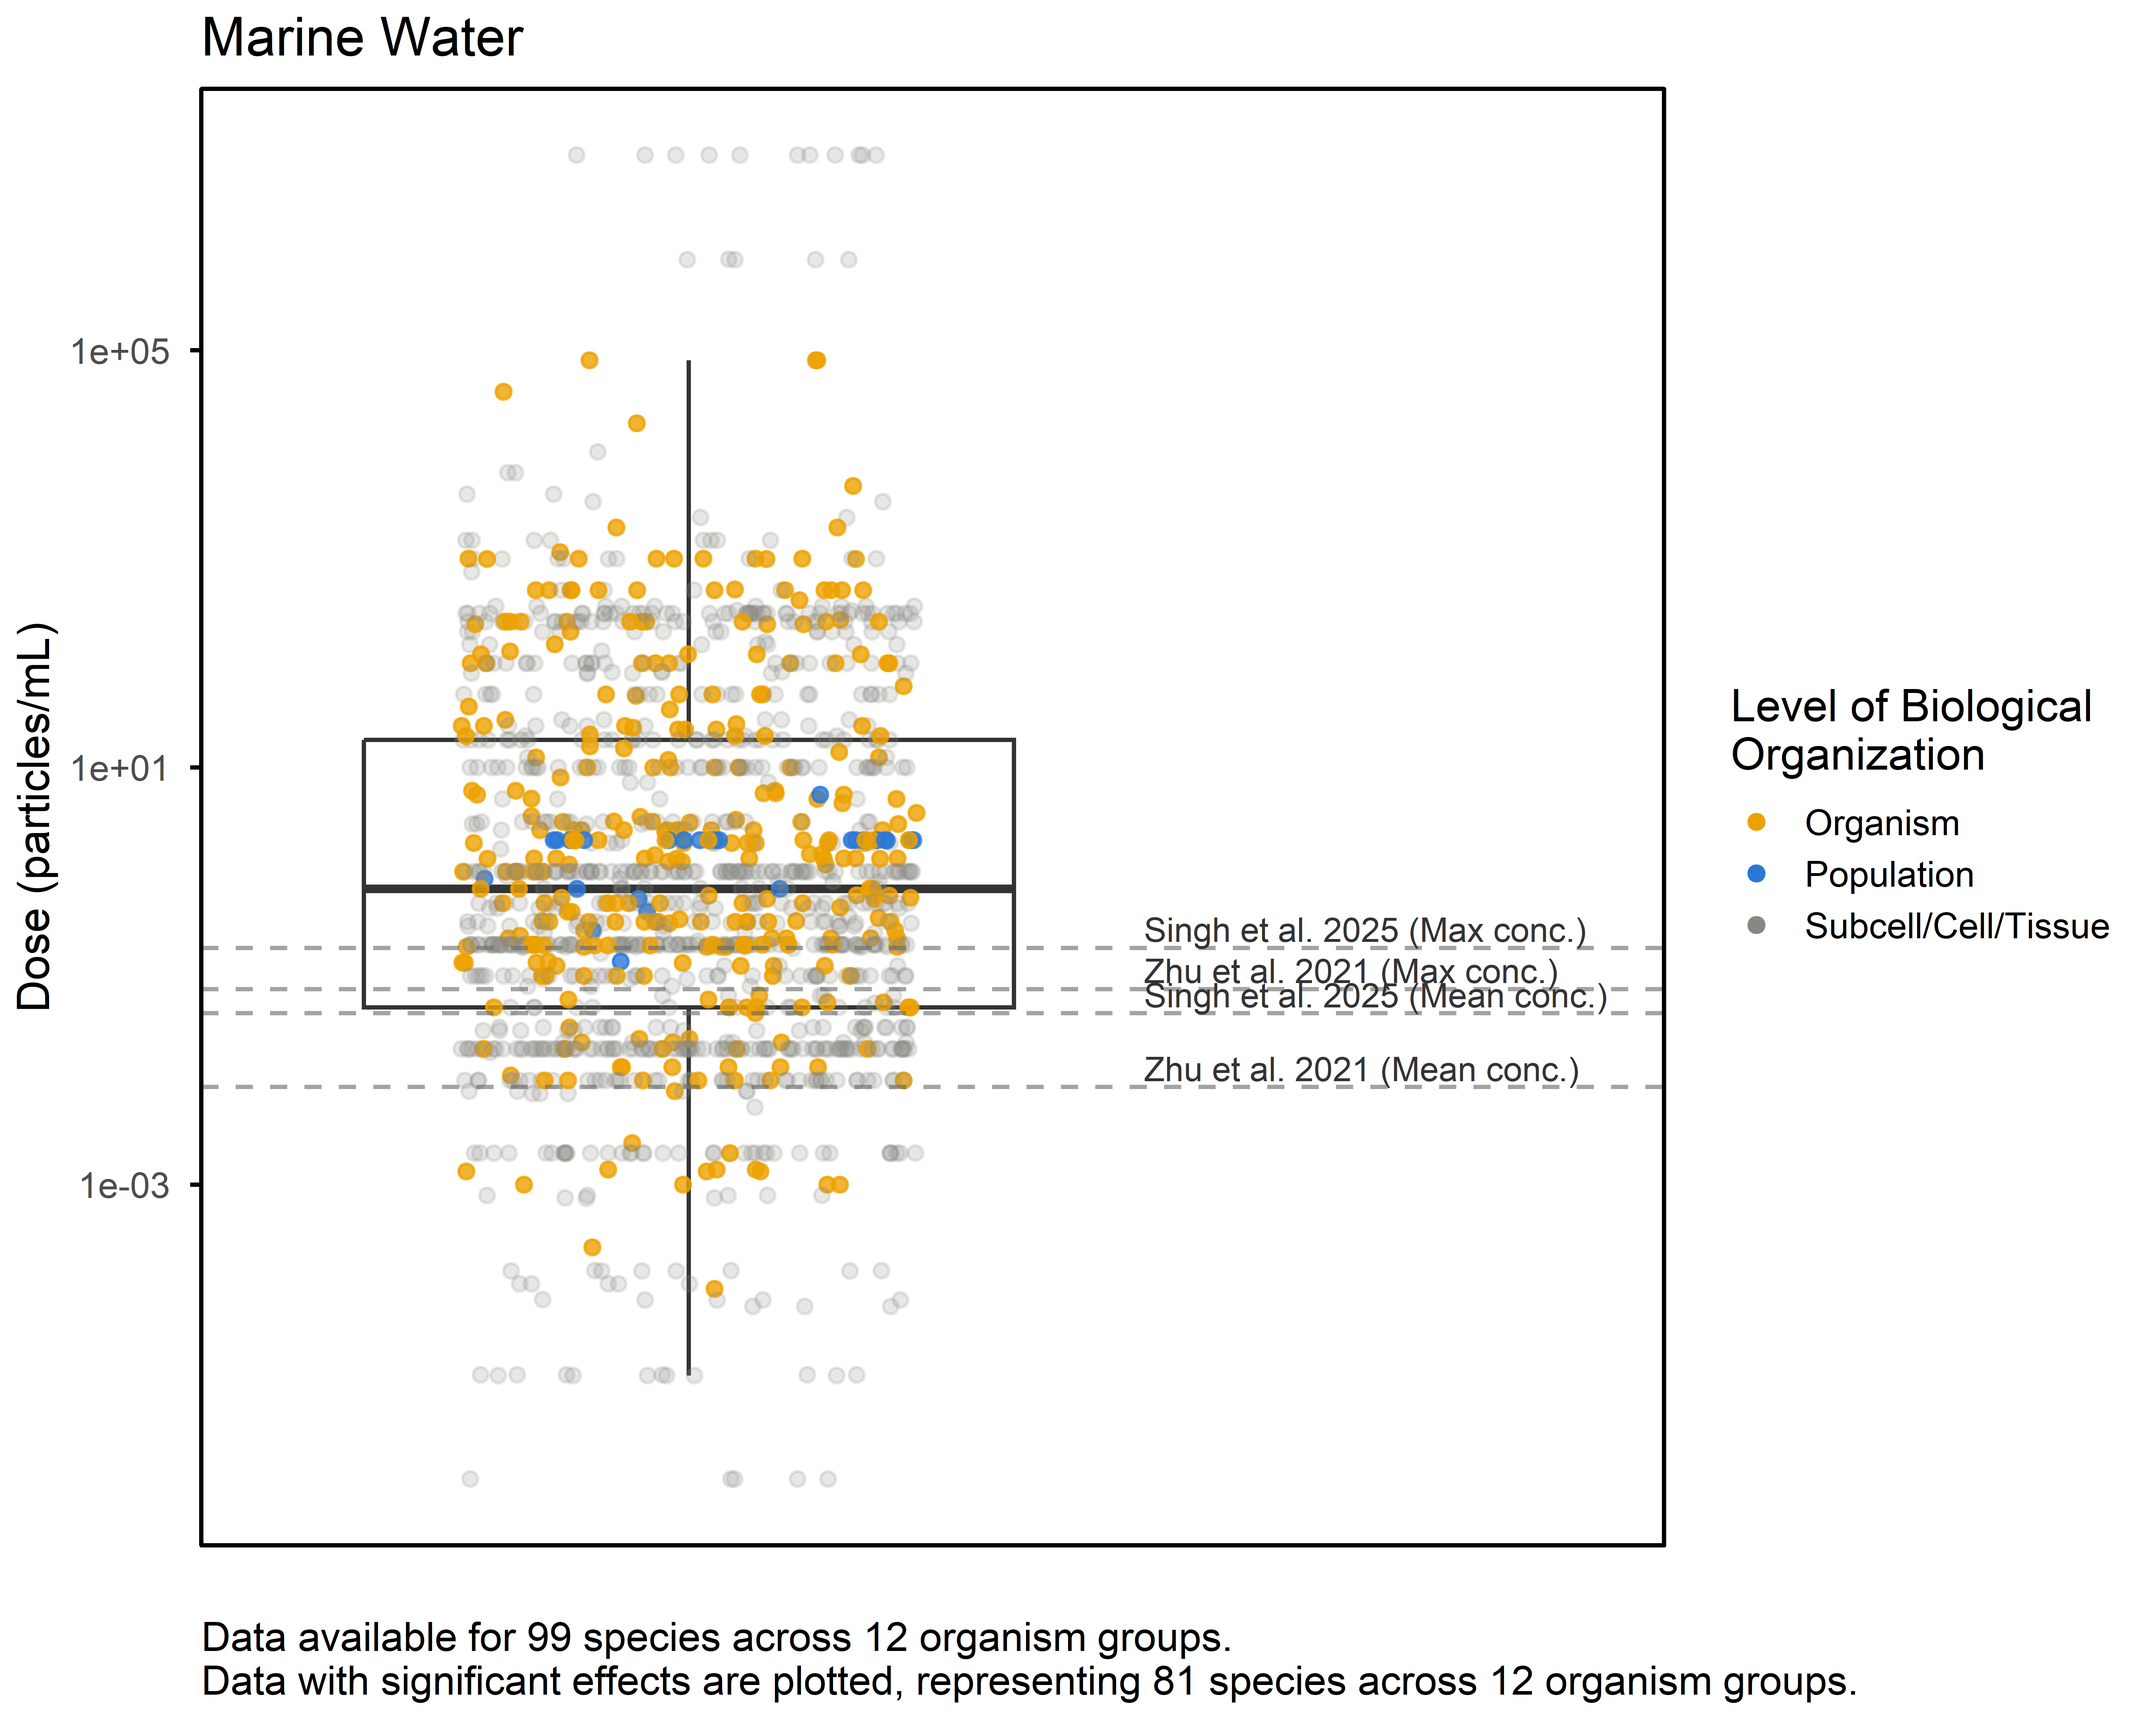
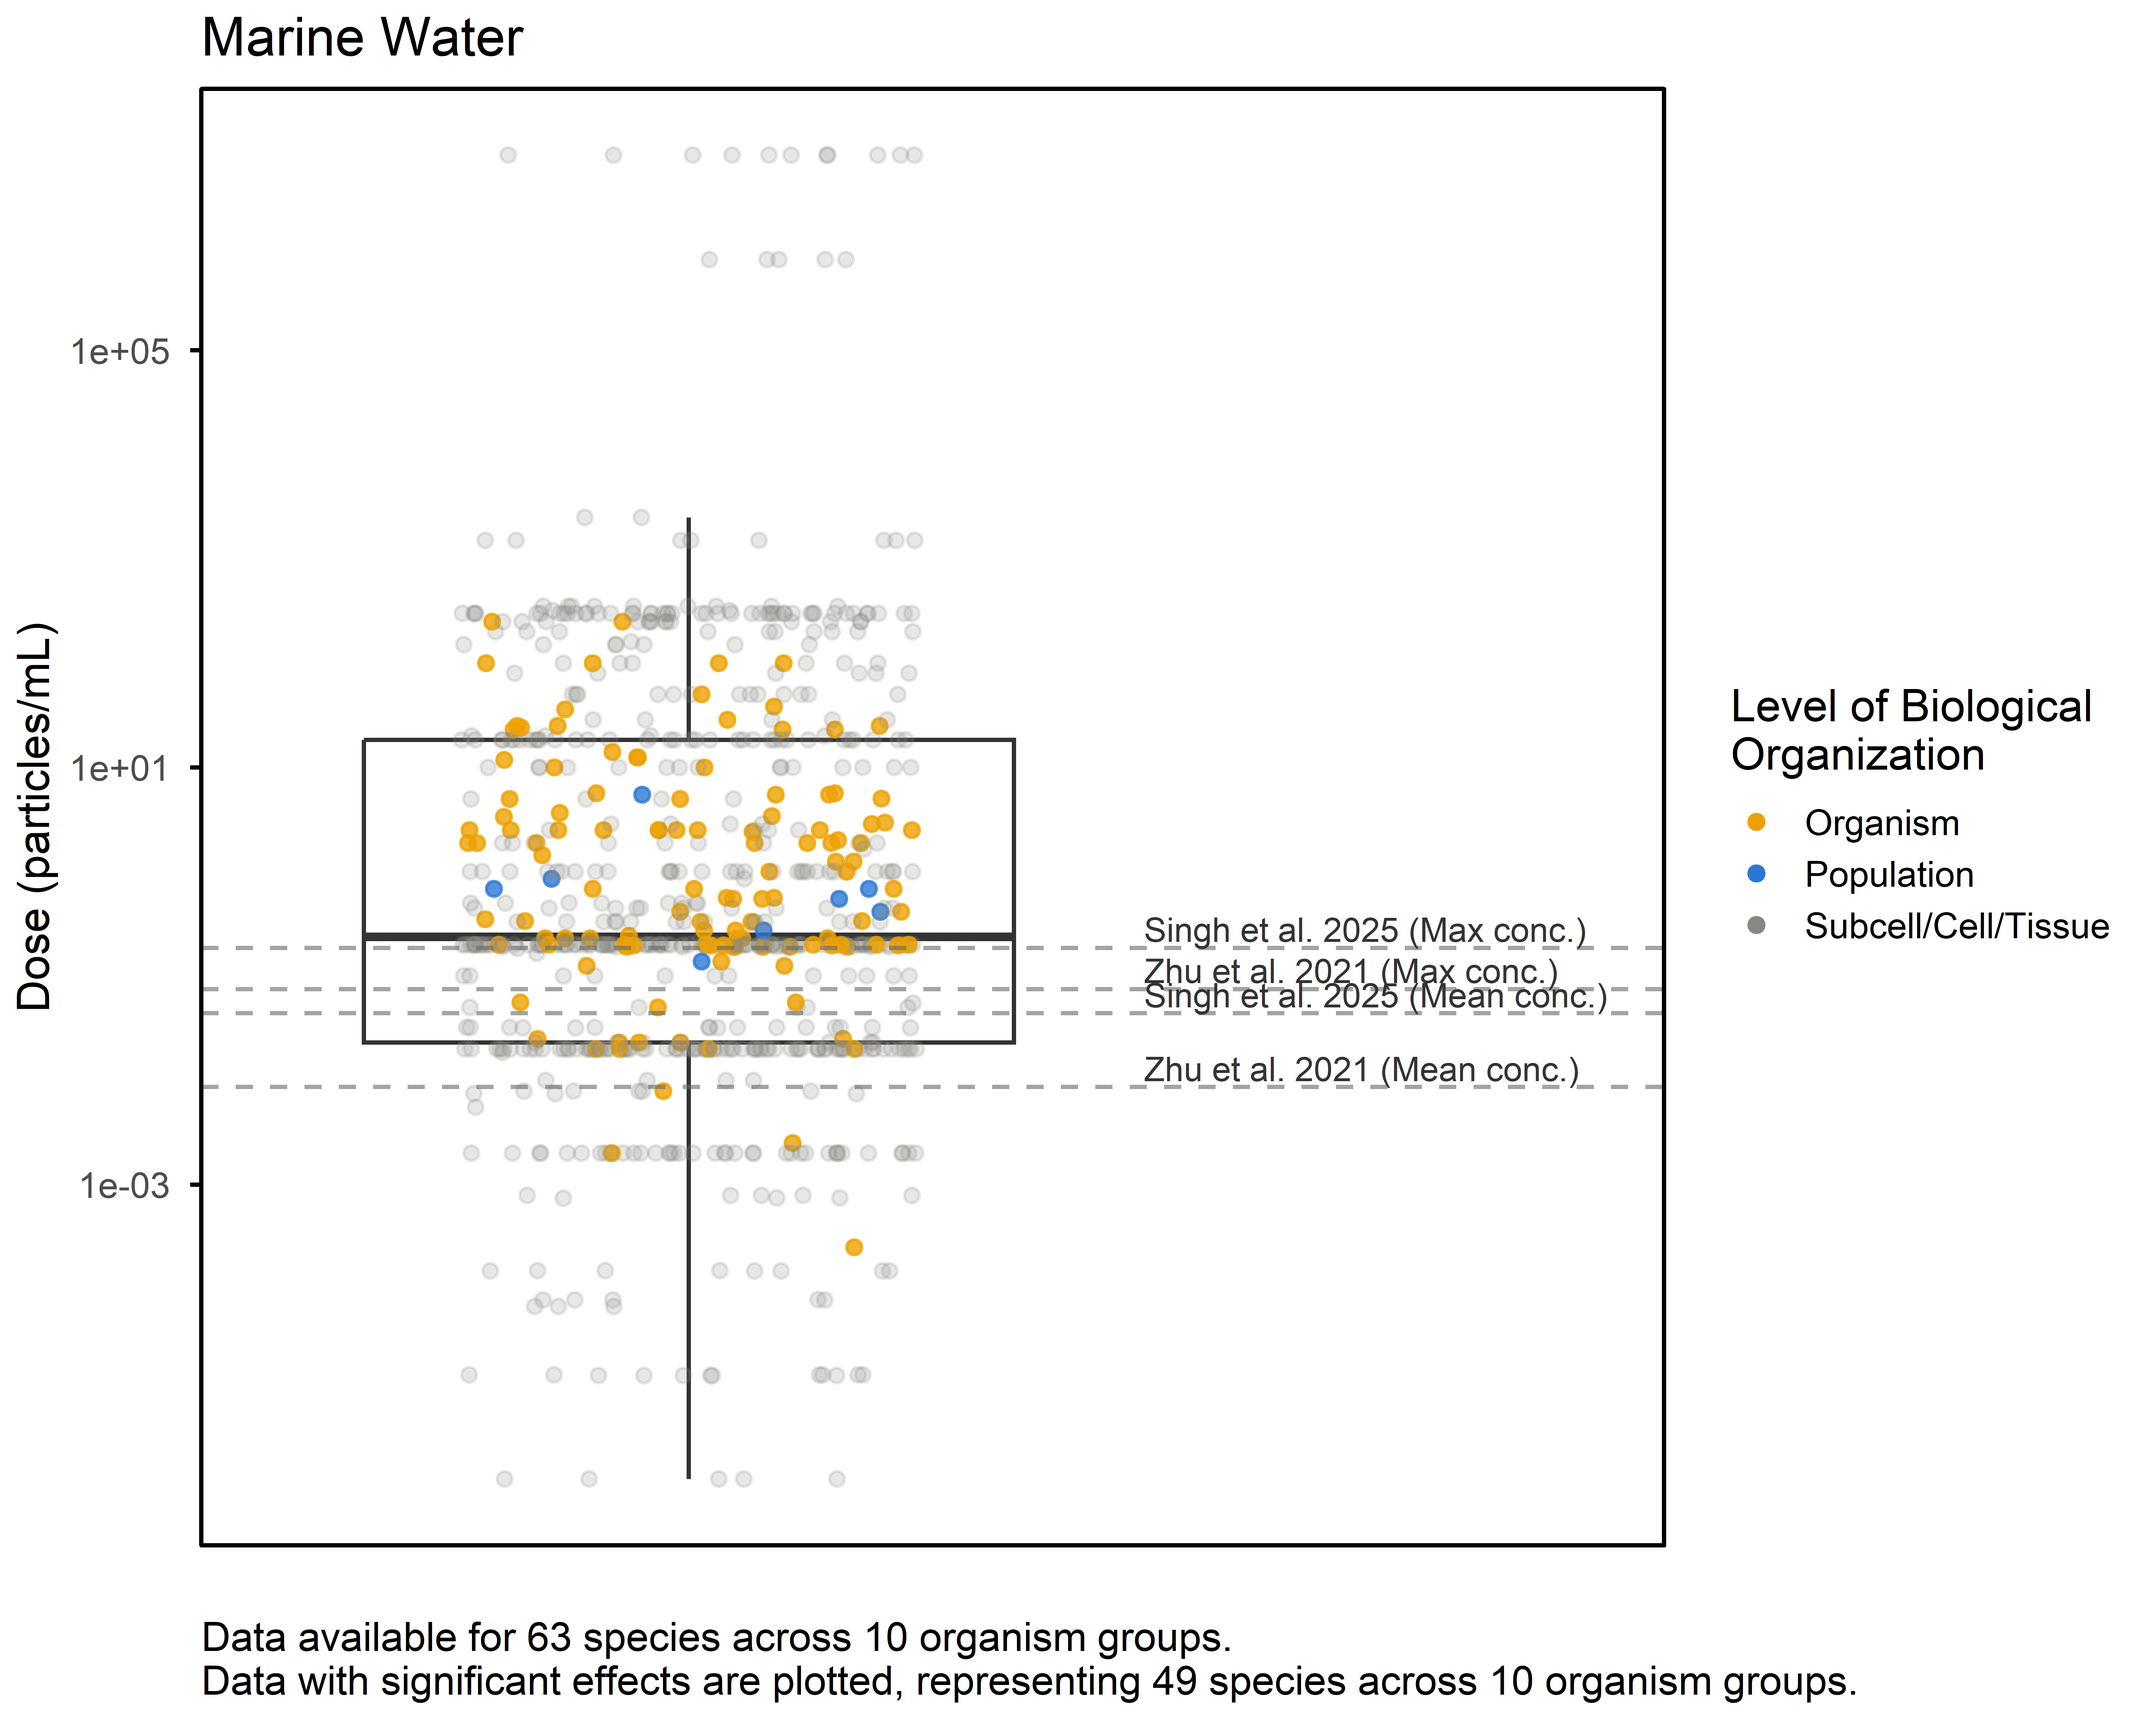
filtered to only marine species since alignments are only for marine right now

diff --git a/Toxicity Scoring.html b/Toxicity Scoring.html
@@ -72,7 +72,7 @@ pre > code.sourceCode > span > a:first-child::before { text-decoration: underlin
 <script src="Toxicity Scoring_files/libs/bootstrap/bootstrap.min.js"></script>
 <link href="Toxicity Scoring_files/libs/bootstrap/bootstrap-icons.css" rel="stylesheet">
 <link href="Toxicity Scoring_files/libs/bootstrap/bootstrap-efbb37e9afcc02144ebbc7afd12a776f.min.css" rel="stylesheet" append-hash="true" id="quarto-bootstrap" data-mode="light">
-<link href="Toxicity Scoring_files/libs/htmltools-fill-0.5.8.1/fill.css" rel="stylesheet">
+<link href="Toxicity Scoring_files/libs/htmltools-fill-0.5.9/fill.css" rel="stylesheet">
 
 <script src="Toxicity Scoring_files/libs/htmlwidgets-1.6.4/htmlwidgets.js"></script>
 
@@ -133,8 +133,8 @@ pre > code.sourceCode > span > a:first-child::before { text-decoration: underlin
 <span id="cb1-6"><a href="#cb1-6" aria-hidden="true" tabindex="-1"></a>tox_dat <span class="ot">&lt;-</span> <span class="fu">readRDS</span>(<span class="at">file =</span> <span class="st">"Data/aoc_setup_tomex2.RDS"</span>)</span>
 <span id="cb1-7"><a href="#cb1-7" aria-hidden="true" tabindex="-1"></a></span>
 <span id="cb1-8"><a href="#cb1-8" aria-hidden="true" tabindex="-1"></a><span class="do">##Particle only data, marine water, particle aligned w/ alpha = marine surface water, upper particle length 50000 um</span></span>
-<span id="cb1-9"><a href="#cb1-9" aria-hidden="true" tabindex="-1"></a>marinewater_particle_aligned_import <span class="ot">&lt;-</span> <span class="fu">read_excel</span>(<span class="st">"Data/ToMEx_Exploration2026-08-31_marinewater_particle_aligned.xlsx"</span>, <span class="at">sheet =</span> <span class="dv">1</span>)</span>
-<span id="cb1-10"><a href="#cb1-10" aria-hidden="true" tabindex="-1"></a>marinesed_particle_aligned_import <span class="ot">&lt;-</span> <span class="fu">read_excel</span>(<span class="st">"Data/ToMEx_Exploration2026-09-01_marinesed_particle_aligned.xlsx"</span>, <span class="at">sheet =</span> <span class="dv">1</span>)</span></code></pre></div><button title="Copy to Clipboard" class="code-copy-button"><i class="bi"></i></button></div>
+<span id="cb1-9"><a href="#cb1-9" aria-hidden="true" tabindex="-1"></a>marinewater_particle_aligned_import <span class="ot">&lt;-</span> <span class="fu">read_excel</span>(<span class="st">"Data/ToMEx_Exploration2026-08-31_marinewater_particle_aligned.xlsx"</span>, <span class="at">sheet =</span> <span class="dv">1</span>) <span class="sc">%&gt;%</span> <span class="fu">filter</span>(Environment <span class="sc">==</span> <span class="st">"Marine"</span>)</span>
+<span id="cb1-10"><a href="#cb1-10" aria-hidden="true" tabindex="-1"></a>marinesed_particle_aligned_import <span class="ot">&lt;-</span> <span class="fu">read_excel</span>(<span class="st">"Data/ToMEx_Exploration2026-09-01_marinesed_particle_aligned.xlsx"</span>, <span class="at">sheet =</span> <span class="dv">1</span>) <span class="sc">%&gt;%</span> <span class="fu">filter</span>(Environment <span class="sc">==</span> <span class="st">"Marine"</span>)</span></code></pre></div><button title="Copy to Clipboard" class="code-copy-button"><i class="bi"></i></button></div>
 </details>
 </div>
 <section id="data-tidying" class="level1">
@@ -306,8 +306,8 @@ pre > code.sourceCode > span > a:first-child::before { text-decoration: underlin
 <span id="cb6-5"><a href="#cb6-5" aria-hidden="true" tabindex="-1"></a>DT<span class="sc">::</span><span class="fu">datatable</span>(species_sensitivity)</span></code></pre></div><button title="Copy to Clipboard" class="code-copy-button"><i class="bi"></i></button></div>
 </details>
 <div class="cell-output-display">
-<div class="datatables html-widget html-fill-item" id="htmlwidget-448e152e1ab07f1ef526" style="width:100%;height:auto;"></div>
-<script type="application/json" data-for="htmlwidget-448e152e1ab07f1ef526">{"x":{"filter":"none","vertical":false,"data":[["1","2","3","4","5","6","7","8","9","10","11","12","13","14","15","16","17","18","19","20","21","22","23","24","25","26","27","28","29","30","31","32","33","34","35","36","37","38","39","40","41","42","43","44","45","46","47","48","49","50","51","52","53","54","55","56","57","58","59","60","61","62","63","64","65","66","67","68","69","70","71","72","73","74","75","76","77","78","79","80","81"],["Ceriodaphnia dubia","Danio rerio","Daphnia magna","Oncorhynchus mykiss","Strombidium sulcatum","Oryzias latipes","Oryzias melastigma","Tigriopus japonicus","Hyalella azteca","Paracentrotus lividus","Mytilus galloprovincialis","Pinctada margaritifera","Pseudechinus huttoni","Crassostrea gigas","Daphnia pulex","Hydropsyche pellucidula","Moina macrocopa","Perinereis aibuhitensis","Crepidula onyx","Parvocalanus crassirostris","Diaphanosoma celebensis","Oryzias javanicus","Gasterosteus aculeatus","Pomatoschistus microps","Centropristis striata","Microcystis aeruginosa","Acartia tonsa","Brachionus plicatilis","Calanus helgolandicus","Gammarus pulex","Hydrilla verticillata","Palaemonetes pugio","Sebastes schlegelii","Tigriopus fulvus","Hydra attenuata","Lemna minor","Tripneustes gratilla","Acropora NA","Apostichopus japonicus","Artemia parthenogenetica","Brachionus koreanus","Clarias gariepinus","Dreissena polymorpha","Hypophthalmichthys molitrix","Mytilus species","Seriatopora hystrix","Barbodes gonionotus","Skeletonema costatum","Atactodea striata","Carassius auratus","Mytilus coruscus","Ostrea edulis","Chlorella NA","Dunaliella salina","Karenia mikimotoi","Scenedesmus armatus","Acropora muricata","Artemia franciscana","Brachionus calyciflorus","Brachionus fernandoi","Chaetoceros neogracile","Chlamydomonas reinhardtii","Pocillopora verrucosa","Spirulina NA","Lates calcarifer","Mactra veneriformis","Scrobicularia plana","Chlorella pyrenoidosa","Pimephales promelas","Raphidocelis subcapitata","Carcinus maenas","Cyprinodon variegatus","Gammarus fossarum","Heliopora coerulea","Lophelia pertusa","Dreissena bugensis","Halomonas alkaliphila","Mytilus edulis","Paracyclopina nana","Tubastrea aurea","Vallisneria denseserrulata"],["Crustacea","Fish","Crustacea","Fish","Ciliophora","Fish","Fish","Crustacea","Crustacea","Echinoderm","Mollusca","Mollusca","Echinoderm","Mollusca","Crustacea","Insect","Crustacea","Annelida","Mollusca","Crustacea","Crustacea","Fish","Fish","Fish","Fish","Bacterium","Crustacea","Rotifera","Crustacea","Crustacea","Plant","Crustacea","Fish","Crustacea","Cnidaria","Plant","Echinoderm","Cnidaria","Echinoderm","Crustacea","Rotifera","Fish","Mollusca","Fish","Mollusca","Cnidaria","Fish","Algae","Mollusca","Fish","Mollusca","Mollusca","Algae","Algae","Algae","Algae","Cnidaria","Crustacea","Rotifera","Rotifera","Algae","Algae","Cnidaria","Algae","Fish","Mollusca","Mollusca","Algae","Fish","Algae","Crustacea","Fish","Crustacea","Cnidaria","Cnidaria","Mollusca","Bacterium","Mollusca","Crustacea","Cnidaria","Plant"],[2,2,2,2,2,2,2,2,1,1,2,2,2,2,2,2,2,2,1,1,2,2,2,2,1,1,1,1,1,1,1,1,1,1,0,0,0,2,2,2,2,2,2,2,2,2,1,1,1,1,1,1,0,0,0,0,0,0,0,0,0,0,0,0,1,1,1,0,0,0,0,0,0,0,0,0,0,0,0,0,0],[2,2,2,2,2,1,1,1,2,2,1,1,1,0,0,0,0,0,1,1,1,1,0,0,1,1,0,0,0,0,0,0,0,0,1,1,1,0,0,0,0,0,0,0,0,0,1,1,0,0,0,0,2,2,1,1,0,0,0,0,0,0,0,0,0,0,0,1,1,1,0,0,0,0,0,0,0,0,0,0,0],[2,2,2,2,2,2,2,2,2,2,1,1,1,2,2,2,2,2,2,2,0,0,1,1,1,1,2,2,2,2,2,2,2,2,2,2,2,0,0,0,0,0,0,0,0,0,0,0,1,1,1,1,0,0,1,1,2,2,2,2,2,2,2,2,0,0,0,0,0,0,1,1,1,1,1,0,0,0,0,0,0],[6,6,6,6,6,5,5,5,5,5,4,4,4,4,4,4,4,4,4,4,3,3,3,3,3,3,3,3,3,3,3,3,3,3,3,3,3,2,2,2,2,2,2,2,2,2,2,2,2,2,2,2,2,2,2,2,2,2,2,2,2,2,2,2,1,1,1,1,1,1,1,1,1,1,1,0,0,0,0,0,0]],"container":"<table class=\"display\">\n  <thead>\n    <tr>\n      <th> <\/th>\n      <th>Species<\/th>\n      <th>Organism Group<\/th>\n      <th>Sensitivity<\/th>\n      <th>Dose Response<\/th>\n      <th>Level of Biological Organization<\/th>\n      <th>Total Score<\/th>\n    <\/tr>\n  <\/thead>\n<\/table>","options":{"columnDefs":[{"className":"dt-right","targets":[3,4,5,6]},{"orderable":false,"targets":0},{"name":" ","targets":0},{"name":"Species","targets":1},{"name":"Organism Group","targets":2},{"name":"Sensitivity","targets":3},{"name":"Dose Response","targets":4},{"name":"Level of Biological Organization","targets":5},{"name":"Total Score","targets":6}],"order":[],"autoWidth":false,"orderClasses":false}},"evals":[],"jsHooks":[]}</script>
+<div class="datatables html-widget html-fill-item" id="htmlwidget-e0a1f103d3317687ea8f" style="width:100%;height:auto;"></div>
+<script type="application/json" data-for="htmlwidget-e0a1f103d3317687ea8f">{"x":{"filter":"none","vertical":false,"data":[["1","2","3","4","5","6","7","8","9","10","11","12","13","14","15","16","17","18","19","20","21","22","23","24","25","26","27","28","29","30","31","32","33","34","35","36","37","38","39","40","41","42","43","44","45","46","47","48","49"],["Strombidium sulcatum","Oryzias melastigma","Tigriopus japonicus","Paracentrotus lividus","Mytilus galloprovincialis","Pinctada margaritifera","Pseudechinus huttoni","Crassostrea gigas","Perinereis aibuhitensis","Crepidula onyx","Parvocalanus crassirostris","Diaphanosoma celebensis","Gasterosteus aculeatus","Pomatoschistus microps","Centropristis striata","Acartia tonsa","Brachionus plicatilis","Calanus helgolandicus","Palaemonetes pugio","Sebastes schlegelii","Tigriopus fulvus","Tripneustes gratilla","Acropora NA","Apostichopus japonicus","Artemia parthenogenetica","Brachionus koreanus","Mytilus species","Seriatopora hystrix","Skeletonema costatum","Atactodea striata","Mytilus coruscus","Ostrea edulis","Dunaliella salina","Karenia mikimotoi","Acropora muricata","Artemia franciscana","Chaetoceros neogracile","Pocillopora verrucosa","Lates calcarifer","Mactra veneriformis","Scrobicularia plana","Carcinus maenas","Cyprinodon variegatus","Heliopora coerulea","Lophelia pertusa","Halomonas alkaliphila","Mytilus edulis","Paracyclopina nana","Tubastrea aurea"],["Ciliophora","Fish","Crustacea","Echinoderm","Mollusca","Mollusca","Echinoderm","Mollusca","Annelida","Mollusca","Crustacea","Crustacea","Fish","Fish","Fish","Crustacea","Rotifera","Crustacea","Crustacea","Fish","Crustacea","Echinoderm","Cnidaria","Echinoderm","Crustacea","Rotifera","Mollusca","Cnidaria","Algae","Mollusca","Mollusca","Mollusca","Algae","Algae","Cnidaria","Crustacea","Algae","Cnidaria","Fish","Mollusca","Mollusca","Crustacea","Fish","Cnidaria","Cnidaria","Bacterium","Mollusca","Crustacea","Cnidaria"],[2,2,2,1,2,2,2,2,2,1,1,2,2,2,1,1,1,1,1,1,1,0,2,2,2,2,2,2,1,1,1,1,0,0,0,0,0,0,1,1,1,0,0,0,0,0,0,0,0],[2,1,1,2,1,1,1,0,0,1,1,1,0,0,1,0,0,0,0,0,0,1,0,0,0,0,0,0,1,0,0,0,2,1,0,0,0,0,0,0,0,0,0,0,0,0,0,0,0],[2,2,2,2,1,1,1,2,2,2,2,0,1,1,1,2,2,2,2,2,2,2,0,0,0,0,0,0,0,1,1,1,0,1,2,2,2,2,0,0,0,1,1,1,1,0,0,0,0],[6,5,5,5,4,4,4,4,4,4,4,3,3,3,3,3,3,3,3,3,3,3,2,2,2,2,2,2,2,2,2,2,2,2,2,2,2,2,1,1,1,1,1,1,1,0,0,0,0]],"container":"<table class=\"display\">\n  <thead>\n    <tr>\n      <th> <\/th>\n      <th>Species<\/th>\n      <th>Organism Group<\/th>\n      <th>Sensitivity<\/th>\n      <th>Dose Response<\/th>\n      <th>Level of Biological Organization<\/th>\n      <th>Total Score<\/th>\n    <\/tr>\n  <\/thead>\n<\/table>","options":{"columnDefs":[{"className":"dt-right","targets":[3,4,5,6]},{"orderable":false,"targets":0},{"name":" ","targets":0},{"name":"Species","targets":1},{"name":"Organism Group","targets":2},{"name":"Sensitivity","targets":3},{"name":"Dose Response","targets":4},{"name":"Level of Biological Organization","targets":5},{"name":"Total Score","targets":6}],"order":[],"autoWidth":false,"orderClasses":false}},"evals":[],"jsHooks":[]}</script>
 </div>
 </div>
 </section>

diff --git a/Toxicity Scoring_files/libs/htmltools-fill-0.5.9/fill.css b/Toxicity Scoring_files/libs/htmltools-fill-0.5.9/fill.css
@@ -1,0 +1,21 @@
+@layer htmltools {
+  .html-fill-container {
+    display: flex;
+    flex-direction: column;
+    /* Prevent the container from expanding vertically or horizontally beyond its
+    parent's constraints. */
+    min-height: 0;
+    min-width: 0;
+  }
+  .html-fill-container > .html-fill-item {
+    /* Fill items can grow and shrink freely within
+    available vertical space in fillable container */
+    flex: 1 1 auto;
+    min-height: 0;
+    min-width: 0;
+  }
+  .html-fill-container > :not(.html-fill-item) {
+    /* Prevent shrinking or growing of non-fill items */
+    flex: 0 0 auto;
+  }
+}
